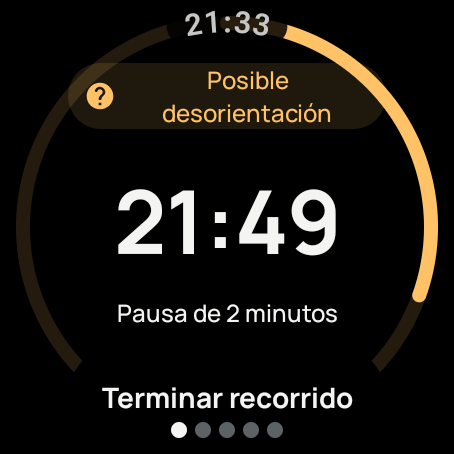
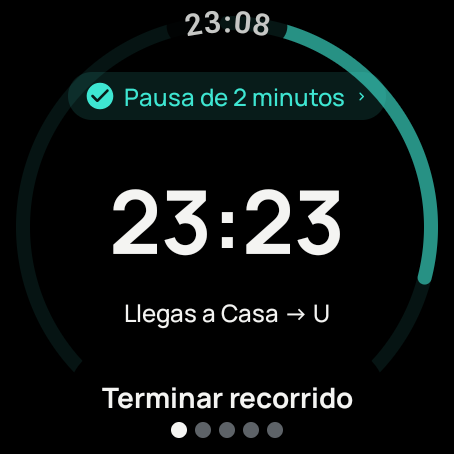
design(home): mostrar la pausa tras "Estoy bien" en calma y con la llegada a la vista
En la pausa el estado se quedaba en ámbar ("Posible desorientación"), que contradice lo que la
persona acaba de decir. Ahora se ve en calma, como define AssistanceState.Paused, y el propio
chip dice "Pausa de 2 minutos"; así "Llegas a Casa → U" vuelve a quedar bajo la hora.

Changed region(s): [[0.0308, 0.0308, 0.9868, 0.8326], [0.2467, 0.4009, 0.7709, 0.5859], [0.2467, 0.6476, 0.7401, 0.7401]]

diff --git a/app/src/main/java/com/lost/watch/feature/home/HomeScreen.kt b/app/src/main/java/com/lost/watch/feature/home/HomeScreen.kt
@@ -81,12 +81,11 @@ private fun IdleStatus() {
 
 @Composable
 private fun MonitoringStatus(state: HomeUiState, onOpenMonitoring: () -> Unit) {
-    LostChip(
-        stringResource(state.status.label),
-        icon = state.status.icon,
-        tone = state.status.tone,
-        onClick = onOpenMonitoring
-    )
+    // En la pausa tras "Estoy bien" el chip dice cuánto dura, en calma; la llegada sigue debajo.
+    val chipLabel = state.pauseMinutes
+        ?.let { pluralStringResource(R.plurals.home_paused, it, it) }
+        ?: stringResource(state.status.label)
+    LostChip(chipLabel, icon = state.status.icon, tone = state.status.tone, onClick = onOpenMonitoring)
     val arrival = state.arrivalMinuteOfDay.takeUnless { state.isVoluntaryDetour || state.isNewPlace }
     arrival?.let { LostText(formatMinuteOfDay(it), role = LostTextRole.DISPLAY) }
     LostText(supportLine(state, hasArrival = arrival != null), role = LostTextRole.CAPTION)
@@ -114,15 +113,9 @@ private fun WeakLocationStatus() {
 
 @Composable
 private fun supportLine(state: HomeUiState, hasArrival: Boolean): String = when {
-    state.pauseMinutes != null ->
-        pluralStringResource(R.plurals.home_paused, state.pauseMinutes, state.pauseMinutes)
-
     state.isVoluntaryDetour -> stringResource(R.string.home_walking_safely)
-
     state.isNewPlace -> state.routineName ?: stringResource(R.string.home_new_place)
-
     hasArrival && state.routineName != null -> stringResource(R.string.home_arriving_at, state.routineName)
-
     else -> stringResource(R.string.home_only_observing)
 }
 

diff --git a/app/src/main/java/com/lost/watch/ui/StatusPresentation.kt b/app/src/main/java/com/lost/watch/ui/StatusPresentation.kt
@@ -26,14 +26,11 @@ enum class StatusPresentation(val tone: StatusTone, val icon: ImageVector, @para
         }
 
         /**
-         * El estado de un recorrido en curso. Tras "Estoy bien" LOST no pregunta en 2 minutos; mostrar "Creo que
-         * necesitas ayuda" en ese rato contradiría la respuesta, así que se queda como mucho en "Posible
-         * desorientación": honesto, sin alarmar. Inicio, Monitoreo, la complicación y la vista rápida lo usan igual.
+         * El estado de un recorrido en curso. Tras "Estoy bien" LOST no pregunta en 2 minutos y para la pantalla
+         * es como estar en calma: mostrar desorientación en ese rato contradiría lo que la persona acaba de decir.
+         * Inicio, Monitoreo, la complicación y la vista rápida lo usan igual.
          */
-        fun of(snapshot: TripSessionSnapshot): StatusPresentation {
-            val status = of(snapshot.detection.level)
-            val isPaused = snapshot.assistance == AssistanceState.Paused
-            return if (isPaused && status == HELP) DEVIATION else status
-        }
+        fun of(snapshot: TripSessionSnapshot): StatusPresentation =
+            if (snapshot.assistance == AssistanceState.Paused) ON_ROUTE else of(snapshot.detection.level)
     }
 }

diff --git a/app/src/test/java/com/lost/watch/feature/home/HomeUiStateMapperTest.kt b/app/src/test/java/com/lost/watch/feature/home/HomeUiStateMapperTest.kt
@@ -50,10 +50,10 @@ class HomeUiStateMapperTest {
     }
 
     @Test
-    fun `tras estoy bien no alarma y dice cuanto dura la pausa`() {
+    fun `tras estoy bien se ve en calma y dice cuanto dura la pausa`() {
         val snapshot = AppFixtures.monitoring(AppFixtures.detection(AssistanceLevel.HIGH), AssistanceState.Paused)
         val state = mapper.map(snapshot, false)
-        assertEquals(StatusPresentation.DEVIATION, state.status)
+        assertEquals(StatusPresentation.ON_ROUTE, state.status)
         assertEquals(2, state.pauseMinutes)
     }
 

diff --git a/app/src/test/java/com/lost/watch/feature/monitoring/MonitoringUiStateMapperTest.kt b/app/src/test/java/com/lost/watch/feature/monitoring/MonitoringUiStateMapperTest.kt
@@ -46,7 +46,7 @@ class MonitoringUiStateMapperTest {
     @Test
     fun `en la pausa tras estoy bien no muestra ayuda`() {
         val snapshot = AppFixtures.monitoring(AppFixtures.detection(AssistanceLevel.HIGH), AssistanceState.Paused)
-        assertEquals(StatusPresentation.DEVIATION, MonitoringUiStateMapper().map(snapshot).status)
+        assertEquals(StatusPresentation.ON_ROUTE, MonitoringUiStateMapper().map(snapshot).status)
     }
 
     @Test
